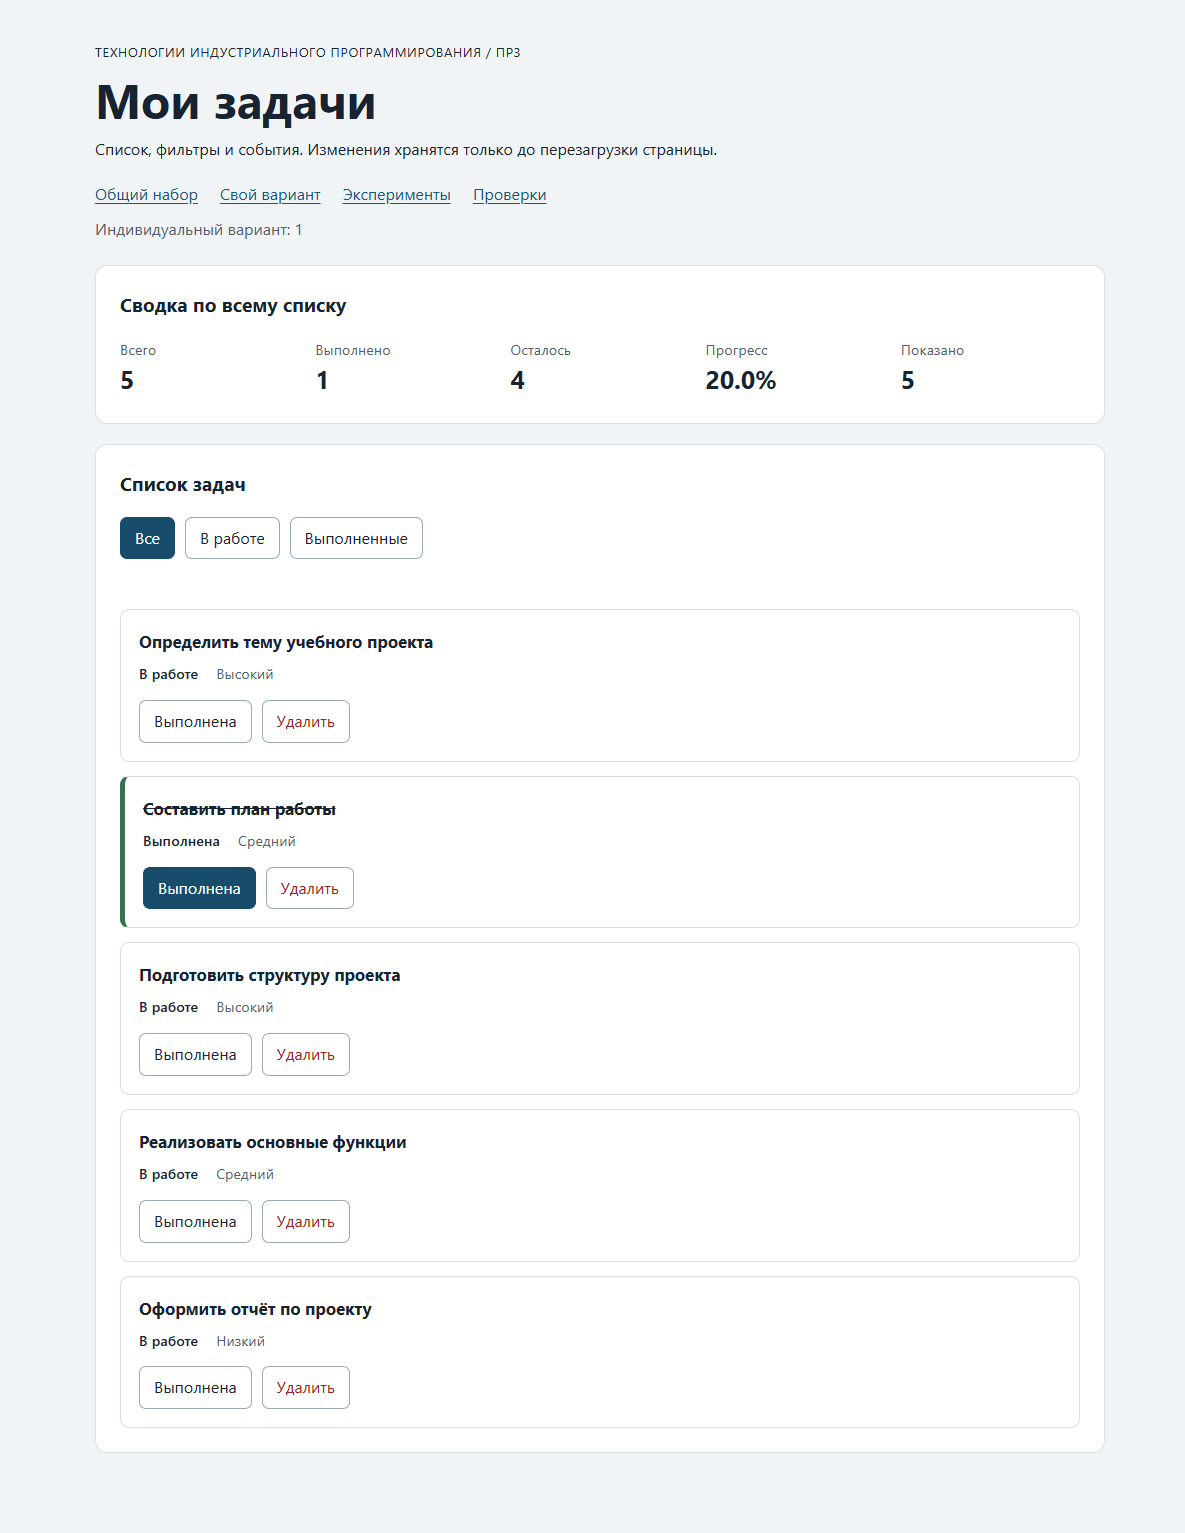
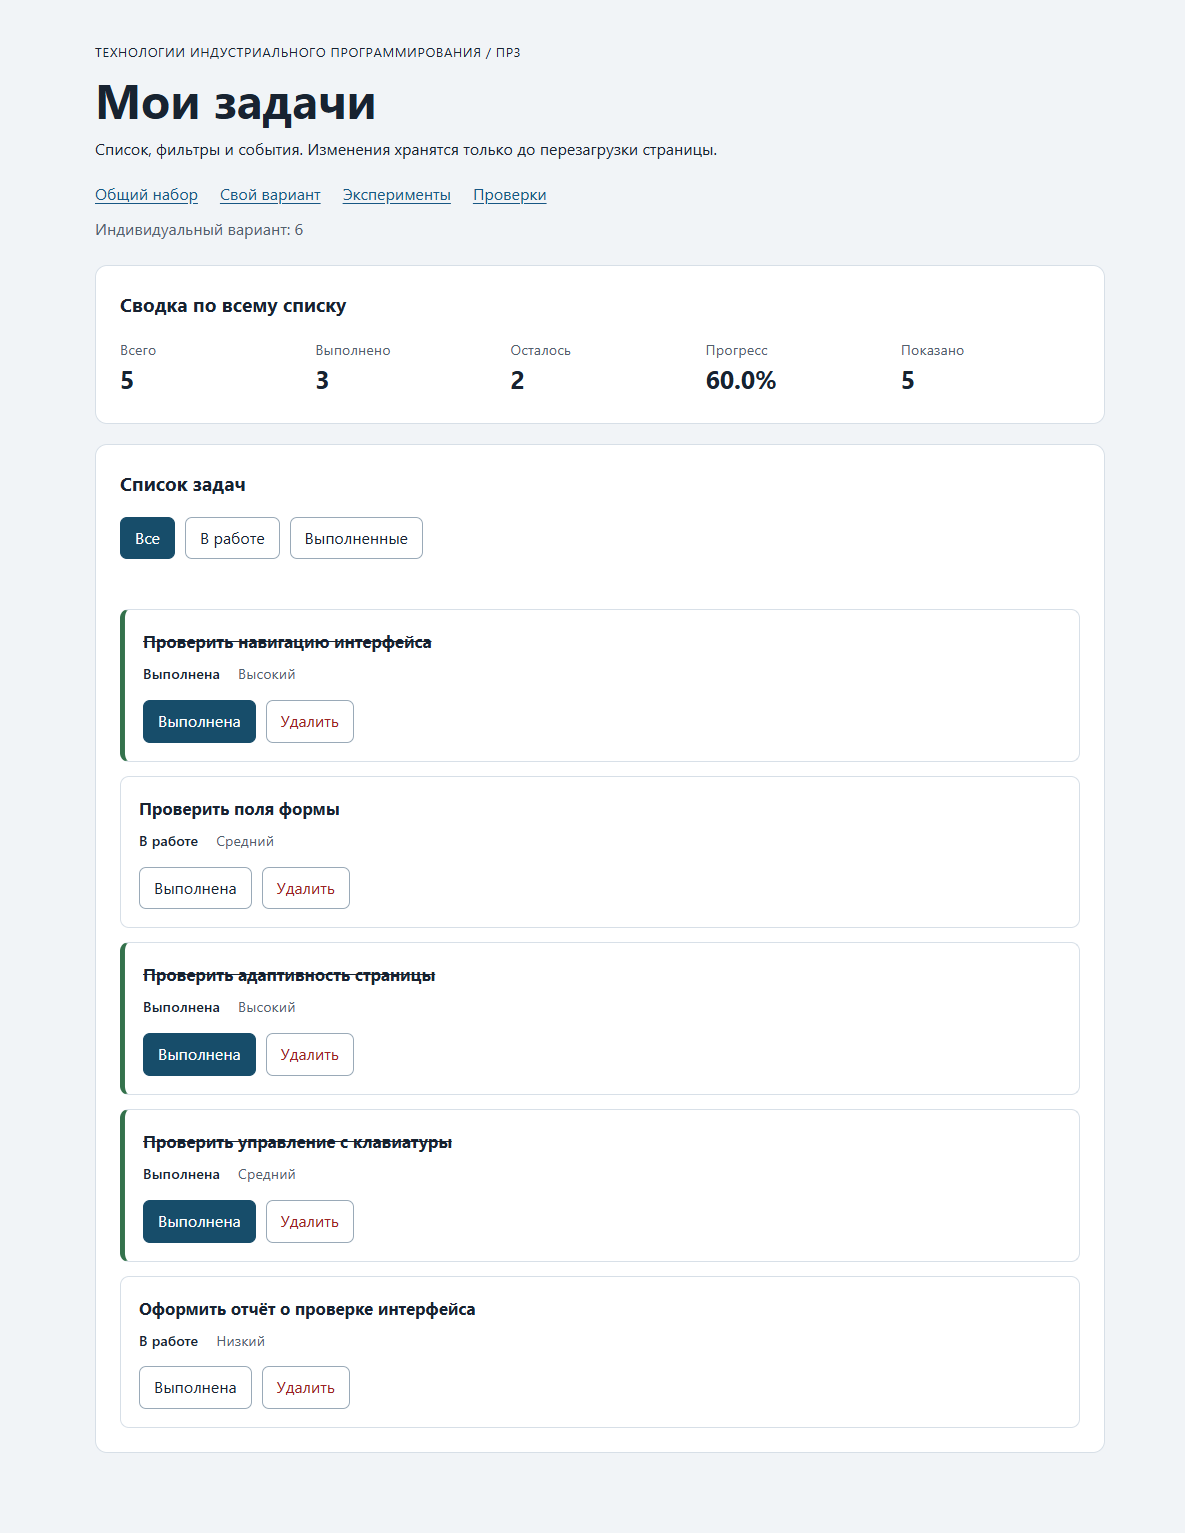
Исправлена практика 3 на вариант 6

diff --git a/practice-03/src/data.js b/practice-03/src/data.js
@@ -7,13 +7,14 @@ export const demoTasks = [
   { id: 10, title: "Оформить README", completed: true, priority: "medium" },
 ];
 
-// Вариант 1: подготовка учебного проекта. Изначально выполнено 0 задач.
-export const variantNumber = 1;
+// Вариант 6: проверка пользовательского интерфейса. Номер в журнале — 22.
+// По методичке изначально выполнены первые пять задач.
+export const variantNumber = 6;
 export const variantTasks = [
-  { id: 11, title: "Определить тему учебного проекта", completed: false, priority: "high" },
-  { id: 23, title: "Составить план работы", completed: false, priority: "medium" },
-  { id: 37, title: "Подобрать учебные материалы", completed: false, priority: "low" },
-  { id: 41, title: "Подготовить структуру проекта", completed: false, priority: "high" },
-  { id: 58, title: "Реализовать основные функции", completed: false, priority: "medium" },
-  { id: 64, title: "Оформить отчёт по проекту", completed: false, priority: "low" },
+  { id: 11, title: "Проверить навигацию интерфейса", completed: true, priority: "high" },
+  { id: 23, title: "Проверить поля формы", completed: true, priority: "medium" },
+  { id: 37, title: "Проверить сообщения об ошибках", completed: true, priority: "low" },
+  { id: 41, title: "Проверить адаптивность страницы", completed: true, priority: "high" },
+  { id: 58, title: "Проверить управление с клавиатуры", completed: true, priority: "medium" },
+  { id: 64, title: "Оформить отчёт о проверке интерфейса", completed: false, priority: "low" },
 ];

diff --git a/practice-03/README.md b/practice-03/README.md
@@ -6,7 +6,9 @@
 |---|---|
 | Имя | Полякова Дарья |
 | Группа | ЭФБО-05-25 |
-| Вариант из ПР2 | 1 |
+| Номер в журнале | 22 |
+| Вариант из ПР2 | 6, `((22 - 1) % 8) + 1 = 6` |
+| Повторная проверка варианта | 6 октября 2026 года |
 | Node.js | v24.21.0 |
 | npm | 11.19.0 |
 | Git | 2.55.0.windows.5 |
@@ -127,31 +129,36 @@ http://127.0.0.1:5503/checks.html
 
 ## Индивидуальный вариант
 
-Вариант 1: **подготовка учебного проекта**. Используется исходный набор ПР2,
-а не результат её консольного сценария. Все шесть задач изначально невыполненные.
+Повторная проверка варианта 6 выполнена 6 октября 2026 года.
+Фактический протокол: [variant-checks-output.txt](./variant-checks-output.txt).
+
+Вариант 6: **проверка пользовательского интерфейса**. Используется исходный набор ПР2,
+а не результат её консольного сценария. Первые пять задач выполнены, задача 64 не выполнена.
 
 | id | Название | Приоритет |
 |---|---|---|
-| 11 | Определить тему учебного проекта | high |
-| 23 | Составить план работы | medium |
-| 37 | Подобрать учебные материалы | low |
-| 41 | Подготовить структуру проекта | high |
-| 58 | Реализовать основные функции | medium |
-| 64 | Оформить отчёт по проекту | low |
+| 11 | Проверить навигацию интерфейса | high |
+| 23 | Проверить поля формы | medium |
+| 37 | Проверить сообщения об ошибках | low |
+| 41 | Проверить адаптивность страницы | high |
+| 58 | Проверить управление с клавиатуры | medium |
+| 64 | Оформить отчёт о проверке интерфейса | low |
 
-До действий проверены все три фильтра: «Все» и «В работе» показывают шесть
-задач, «Выполненные» — ни одной с сообщением об отсутствии совпадений.
+До действий проверены все три фильтра: «Все» показывает шесть задач,
+«В работе» — только 64, «Выполненные» — 11, 23, 37, 41, 58.
+Прогноз: переключение 23 снимет выполнение, затем удаление выполненной 37
+оставит три выполненные задачи из пяти, прогресс 60.0%.
 После возвращения во «Все» выполнены переключение 23 и удаление 37.
 
 | Этап | Всего | Выполнено | Осталось | Прогресс | Видимые id |
 |---|---|---|---|---|---|
-| До действий | 6 | 0 | 6 | 0.0% | `[11, 23, 37, 41, 58, 64]` |
-| После переключения 23 | 6 | 1 | 5 | 16.7% | `[11, 23, 37, 41, 58, 64]` |
-| После удаления 37 | 5 | 1 | 4 | 20.0% | `[11, 23, 41, 58, 64]` |
-| Итог, фильтр «В работе» | 5 | 1 | 4 | 20.0% | `[11, 41, 58, 64]` |
-| Итог, фильтр «Выполненные» | 5 | 1 | 4 | 20.0% | `[23]` |
+| До действий | 6 | 5 | 1 | 83.3% | `[11, 23, 37, 41, 58, 64]` |
+| После переключения 23 | 6 | 4 | 2 | 66.7% | `[11, 23, 37, 41, 58, 64]` |
+| После удаления 37 | 5 | 3 | 2 | 60.0% | `[11, 23, 41, 58, 64]` |
+| Итог, фильтр «В работе» | 5 | 3 | 2 | 60.0% | `[23, 64]` |
+| Итог, фильтр «Выполненные» | 5 | 3 | 2 | 60.0% | `[11, 41, 58]` |
 
-Фактический результат совпал с ожиданием для варианта 1. Названия и приоритеты
+Фактический результат совпал с ожиданием для варианта 6. Названия и приоритеты
 оставшихся записей сохранились. Экспортированный `variantTasks` не изменился.
 
 ## Протокол проверки сервиса
@@ -230,7 +237,7 @@ http://127.0.0.1:5503/checks.html
 
 ![Общий набор: четыре задачи и прогресс 50 процентов](./screenshots/application.png)
 
-[Вариант 1 после переключения 23 и удаления 37: пять задач, прогресс 20%](./screenshots/variant.png).
+[Вариант 6 после переключения 23 и удаления 37: пять задач, прогресс 60%](./screenshots/variant.png).
 
 ## Дополнительное задание
 
